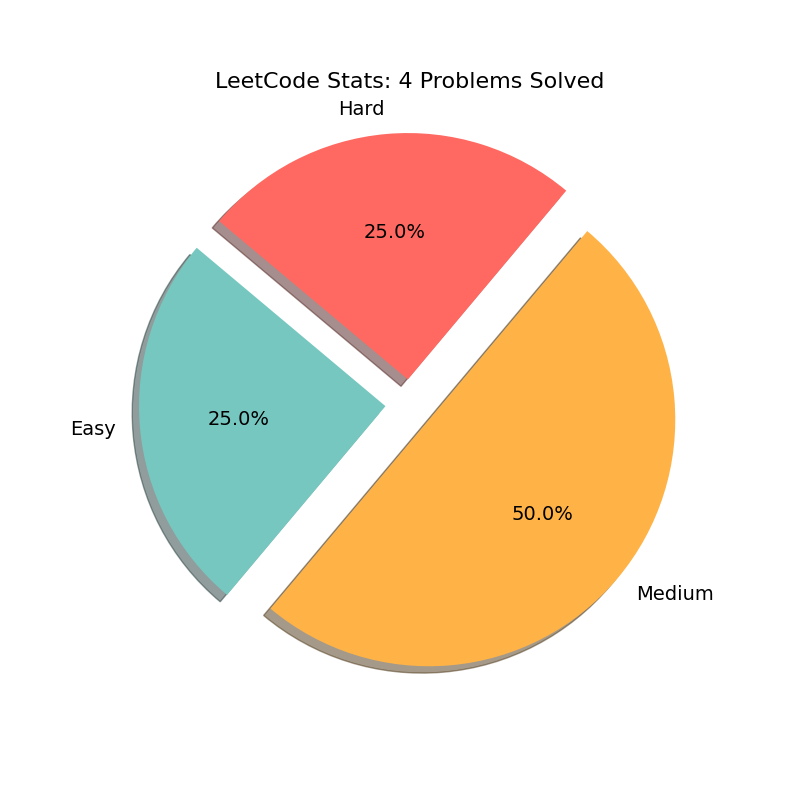
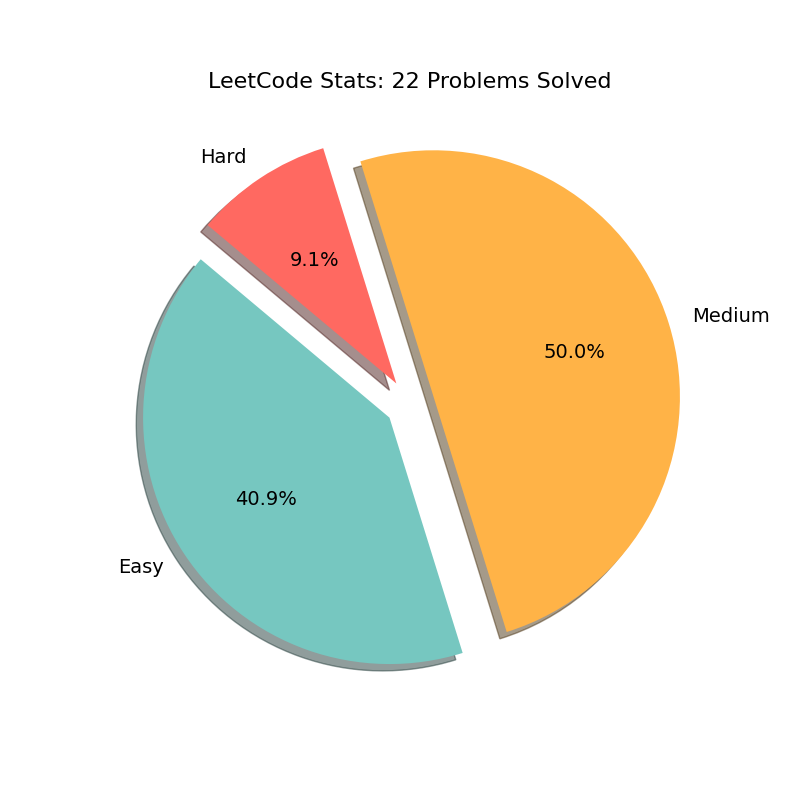
Updated LeetCode stats graph

diff --git a/README.md b/README.md
@@ -137,3 +137,5 @@ Collection of LeetCode questions & solutions.
 
 <img src="leetcode_stats.png" alt="LeetCode Stats" width="400">
 
+<img src="leetcode_stats.png" alt="LeetCode Stats" width="400">
+
